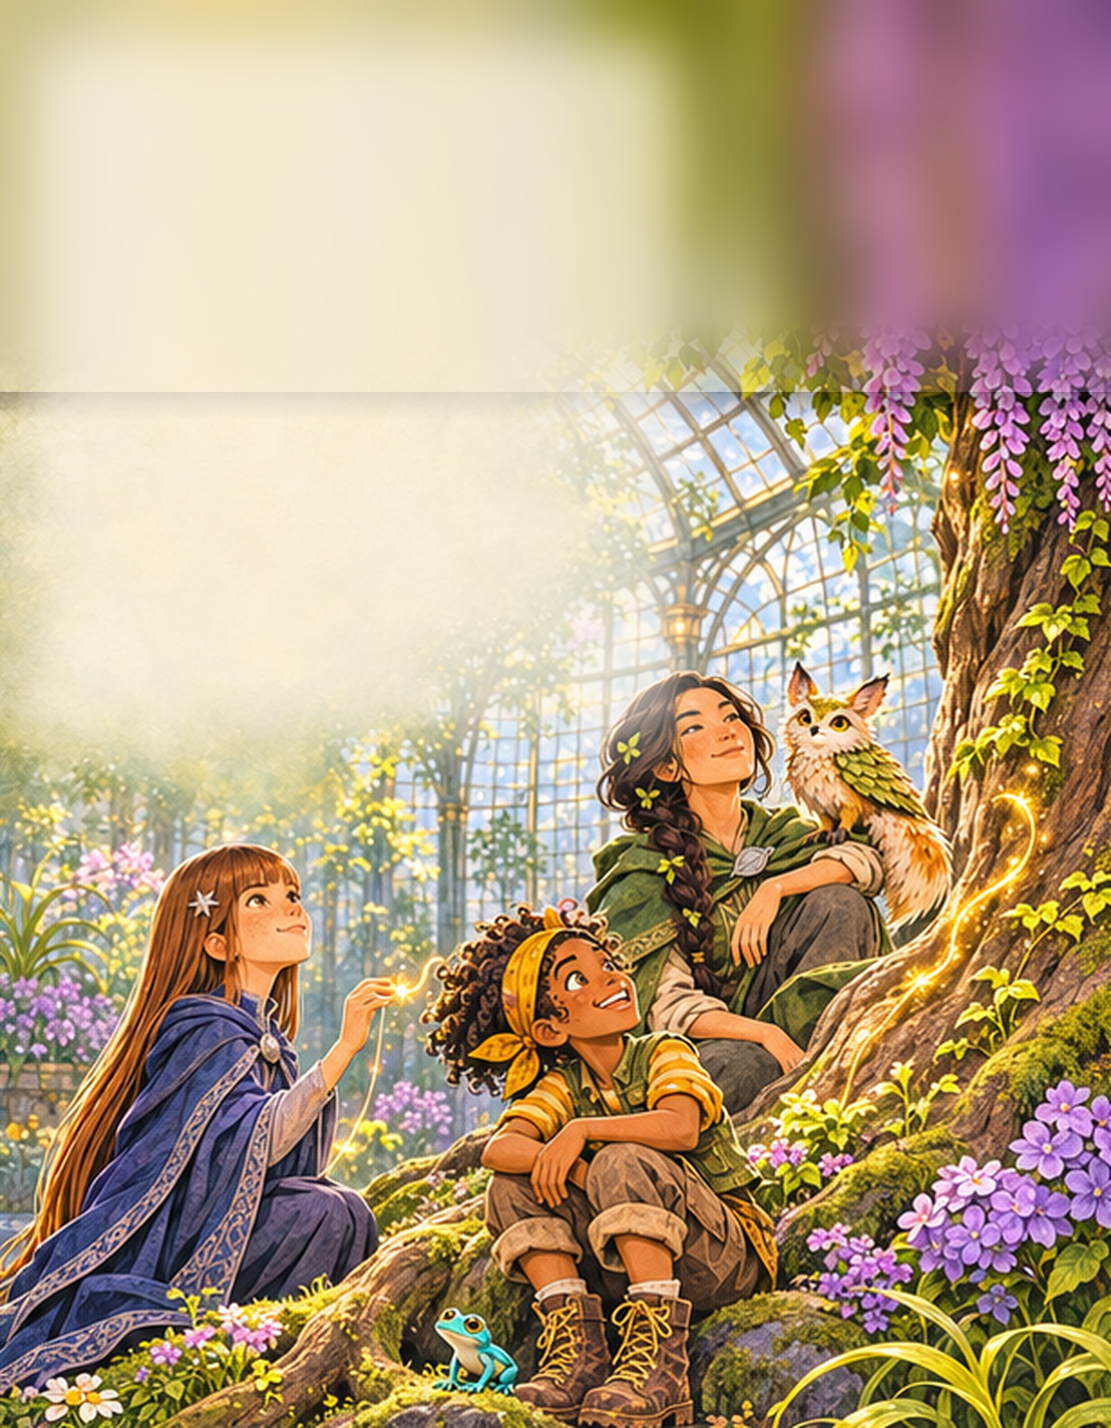
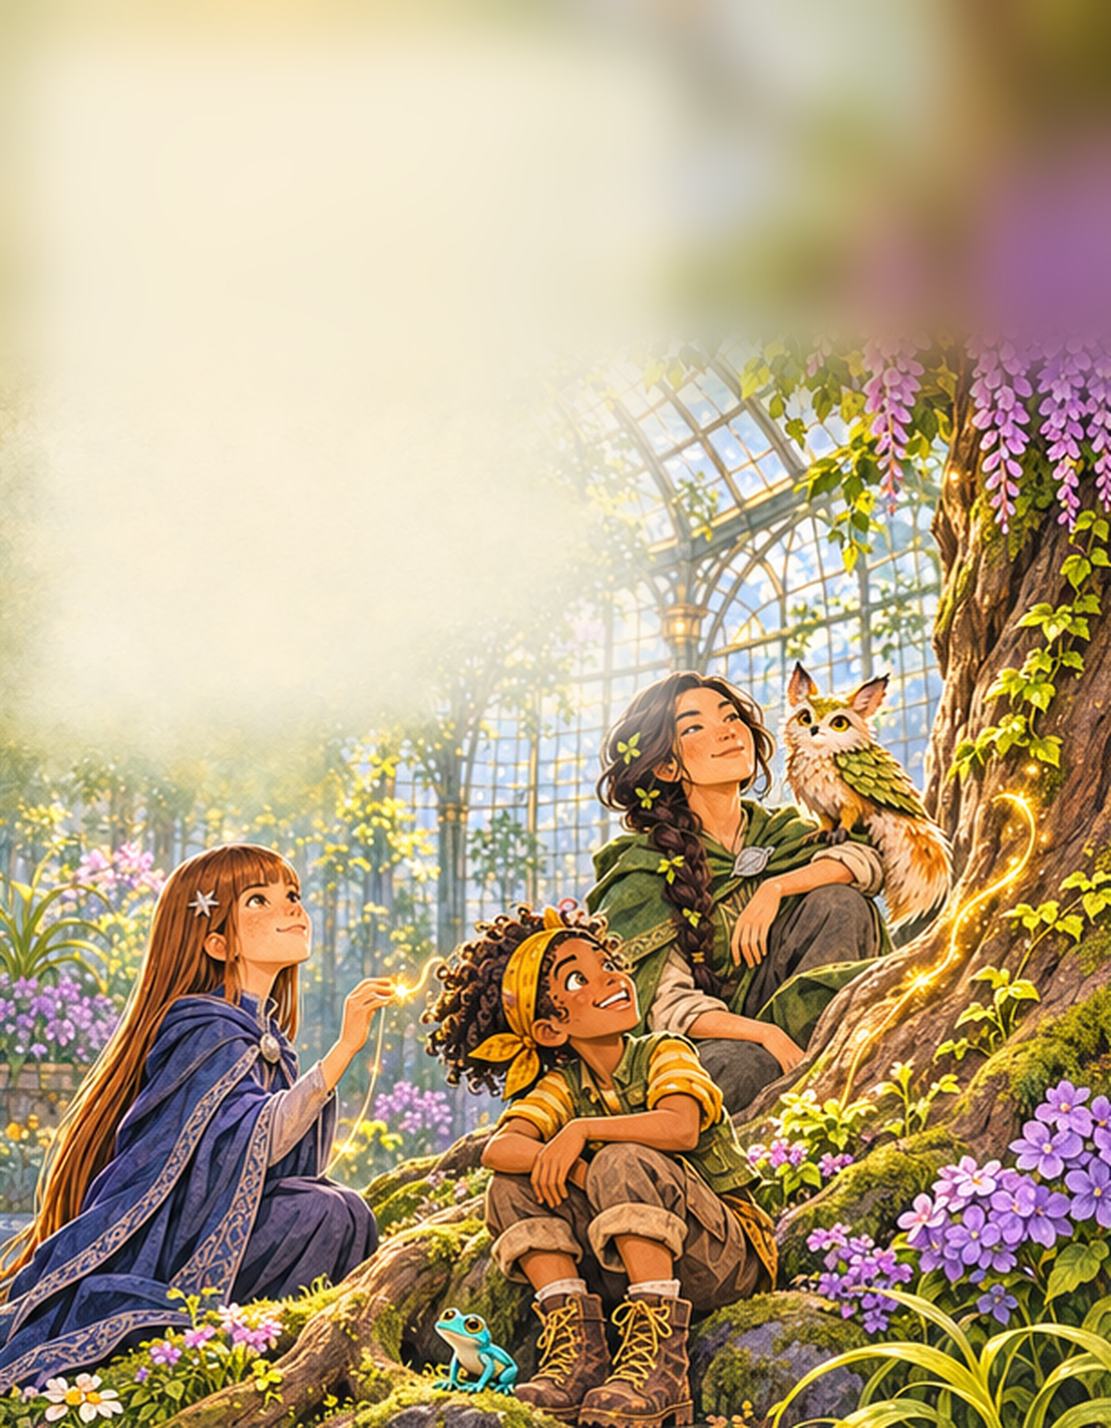
Save writing progress

Changed region(s): [[0.4607, 0.0, 1.0, 0.3111], [0.0, 0.2489, 0.0614, 0.3111], [0.0, 0.0622, 0.0307, 0.1244]]

diff --git a/glassvale/beyond-the-waterfall/the-three-paths/production/build_edition.py b/glassvale/beyond-the-waterfall/the-three-paths/production/build_edition.py
@@ -14,13 +14,14 @@ import hashlib
 import html
 import io
 import json
+import math
 import re
 import uuid
 import xml.etree.ElementTree as ET
 from pathlib import Path
 from zipfile import ZIP_DEFLATED, ZIP_STORED, ZipFile, ZipInfo
 
-from PIL import Image, ImageDraw, ImageFilter, ImageFont
+from PIL import Image, ImageDraw, ImageFilter, ImageFont, ImageOps
 from reportlab.lib.colors import HexColor
 from reportlab.lib.enums import TA_CENTER, TA_LEFT
 from reportlab.lib.styles import ParagraphStyle
@@ -198,7 +199,6 @@ def build_blended_page_image(ill: dict) -> Path:
     src = Image.open(BOOK / ill["asset"]).convert("RGB")
     target_w, target_h = 1400, 1800  # 200 px per inch for 7x9 in
     scale_h = round(src.height * target_w / src.width)
-    # If taller than page, fit height; otherwise fit width and anchor bottom
     if scale_h > target_h:
         resized = src.resize((target_w, target_h), Image.LANCZOS)
         y_top = 0
@@ -206,29 +206,42 @@ def build_blended_page_image(ill: dict) -> Path:
         resized = src.resize((target_w, scale_h), Image.LANCZOS)
         y_top = target_h - scale_h
 
-    # Build ambient upper sky/wall extension from top strip of illustration
-    top_strip = resized.crop((0, 0, target_w, min(48, resized.height)))
-    # Stretch top strip smoothly upward and blur heavily so sky/wall tone continues naturally
-    ambient_h = max(1, y_top + 96)
-    ambient = top_strip.resize((target_w, ambient_h), Image.BILINEAR)
-    ambient = ambient.filter(ImageFilter.GaussianBlur(radius=38))
-
+    # Build a completely seamless full-height ambient backdrop (mirrored top band + blur)
+    # so the illustration's top edge melts invisibly with zero horizontal seam.
     canvas_im = Image.new("RGB", (target_w, target_h))
-    canvas_im.paste(ambient, (0, 0))
-
-    # Feather top edge of resized illustration seamlessly into ambient extension
-    feather_px = min(130, resized.height // 4)
-    mask = Image.new("L", resized.size, 255)
-    m_draw = ImageDraw.Draw(mask)
     if y_top > 0:
+        mirror_src_h = min(resized.height, y_top + 180)
+        mirrored = ImageOps.flip(resized.crop((0, 0, target_w, mirror_src_h)))
+        # Ensure ambient layer covers from y=0 all the way past y_top + 200
+        ambient_bg = Image.new("RGB", (target_w, target_h))
+        ambient_bg.paste(resized, (0, y_top))
+        # Tile mirrored strip upward from y_top
+        paste_y = y_top - mirrored.height
+        ambient_bg.paste(mirrored, (0, max(0, paste_y)), None)
+        if paste_y < 0:
+            cropped_m = mirrored.crop((0, -paste_y, target_w, mirrored.height))
+            ambient_bg.paste(cropped_m, (0, 0))
+        elif paste_y > 0:
+            top_px = mirrored.crop((0, 0, target_w, 24)).resize((target_w, paste_y), Image.BILINEAR)
+            ambient_bg.paste(top_px, (0, 0))
+        ambient_bg = ambient_bg.filter(ImageFilter.GaussianBlur(radius=40))
+        canvas_im.paste(ambient_bg, (0, 0))
+
+        # Smooth cosine feather from y_top down over 180 px
+        feather_px = min(180, resized.height // 3)
+        mask = Image.new("L", resized.size, 255)
+        m_draw = ImageDraw.Draw(mask)
         for y in range(feather_px):
-            val = int(255 * (y / float(feather_px)) ** 1.35)
+            t = y / float(feather_px)
+            val = int(255 * 0.5 * (1.0 - math.cos(math.pi * t)))
             m_draw.line([(0, y), (target_w, y)], fill=val)
-    canvas_im.paste(resized, (0, y_top), mask)
+        canvas_im.paste(resized, (0, y_top), mask)
+    else:
+        canvas_im.paste(resized, (0, 0))
 
     # Apply soft feathered readability veil ONLY around the mapped text box
     bx, by, bw, bh = ill["box_pt"]
-    px_scale = target_w / PAGE_W  # 200/72
+    px_scale = target_w / PAGE_W
     x0 = int((bx - 22) * px_scale)
     y0 = int((by - 20) * px_scale)
     x1 = int((bx + bw + 22) * px_scale)
@@ -237,16 +250,15 @@ def build_blended_page_image(ill: dict) -> Path:
     theme = ill["text_theme"]
     if theme == "dark_on_light":
         veil_rgb = (250, 244, 231)
-        core_alpha = 188
+        core_alpha = 195
     else:
         veil_rgb = (20, 25, 48)
-        core_alpha = 185
+        core_alpha = 190
 
-    veil = Image.new("RGBA", (target_w, target_h), (0, 0, 0, 0))
     v_mask = Image.new("L", (target_w, target_h), 0)
     vm_draw = ImageDraw.Draw(v_mask)
-    vm_draw.rounded_rectangle([x0, y0, x1, y1], radius=46, fill=core_alpha)
-    v_mask = v_mask.filter(ImageFilter.GaussianBlur(radius=36))
+    vm_draw.rounded_rectangle([x0, y0, x1, y1], radius=48, fill=core_alpha)
+    v_mask = v_mask.filter(ImageFilter.GaussianBlur(radius=38))
     veil_color = Image.new("RGBA", (target_w, target_h), veil_rgb + (255,))
     veil_color.putalpha(v_mask)
 
@@ -342,11 +354,18 @@ def build_pdf(book_meta: dict, plan: dict, cover_jpg: Path, out_pdf: Path) -> tu
             c.setFillColor(HexColor(PAPER_HEX))
             c.rect(0, 0, PAGE_W, PAGE_H, stroke=0, fill=1)
 
-        def draw_footer(num: int, light: bool = False) -> None:
+        def draw_footer(num: int, light: bool = False, over_art: bool = False) -> None:
             c.saveState()
-            c.setFont("StorySans", 8.8)
-            c.setFillColor(HexColor("#E8DFC9" if light else "#7A7062"))
-            c.drawCentredString(PAGE_W / 2, 26, str(num))
+            if over_art:
+                c.setFillColor(HexColor("#141930" if light else "#FBF6EC"), alpha=0.72)
+                c.roundRect(PAGE_W / 2 - 14, 18, 28, 16, 7, stroke=0, fill=1)
+                c.setFont("StorySans-Bold", 8.5)
+                c.setFillColor(HexColor("#FBF6EC" if light else "#231F20"), alpha=1.0)
+                c.drawCentredString(PAGE_W / 2, 23, str(num))
+            else:
+                c.setFont("StorySans", 8.8)
+                c.setFillColor(HexColor("#7A7062"))
+                c.drawCentredString(PAGE_W / 2, 26, str(num))
             c.restoreState()
 
         # Page 1: Full-bleed cover
@@ -469,7 +488,7 @@ def build_pdf(book_meta: dict, plan: dict, cover_jpg: Path, out_pdf: Path) -> tu
                         p_obj.drawOn(c, bx, cur_y - ph)
                         cur_y -= ph + style.spaceAfter
 
-                    draw_footer(page_num, light=(ill["text_theme"] == "light_on_dark"))
+                    draw_footer(page_num, light=(ill["text_theme"] == "light_on_dark"), over_art=True)
                     c.showPage()
                     # Advance past blended paragraphs
                     i = ill["blended_paragraphs"][-1] + 1

diff --git a/glassvale/beyond-the-waterfall/the-three-paths/handoff.md b/glassvale/beyond-the-waterfall/the-three-paths/handoff.md
@@ -1,77 +1,17 @@
-# Handoff
+# Handoff — *The Three Paths* (*Beyond the Waterfall*, Book 1)
 
-## Current objective
-Develop the brief and write a representative scene or section.
+## Completed Work
+1. **Universe & 5-Book Series Canon (`glassvale/` & `glassvale/beyond-the-waterfall/`):**
+   - Established `universe.json` (`canon_revision: 1`), `bible.md`, `canon.json` (`FACT-0001`..`FACT-0010`), `timeline.json`, `glossary.md`, `decisions.md` (`DEC-GV-0001`), and 10 character profiles (`CHAR-0001`..`CHAR-0010`).
+   - Built the 5-book series roadmap (`beyond-the-waterfall/roadmap.md`, `bible.md`, `promises.json`, `series.json`) tracking the five pieces of **The World-Glass** and strictly guarding **Peter's** Book 5 Hollow Circle reveal (`KNO-0002` / `FACT-0007`).
+2. **Book 1 Manuscript (`manuscript/001`..`009`):**
+   - Drafted all 9 short chapters (6,885 words total, 0 em/en/double dashes).
+   - Completed a fresh-session independent editorial & continuity review (`reviews/editorial-review.md`, `reviews/issues.json`) and resolved all priority findings (Peter's Ch 2 & Ch 9 close-third POV/spoiler guard, Ch 6–8 Bell-Tower spatial causality, Peter's Mistgate ward absence, and Monica's Ch 4 & Ch 8 beats).
+3. **Illustrations & Blended-Text Reading Editions:**
+   - Generated 3 × 2x2 interior sheets (`sheet-01-ch1-3.png`, `sheet-02-ch4-6.png`, `sheet-03-ch7-9.png`) and `cover-art.png` via Codex `gpt-6.2-sol` built-in `image_gen` referencing the 3 approved sheets in `assets/references/`, and cropped cleanly into `ill-0001.png`..`ill-0012.png`.
+   - Built `exports/cover.jpg` (720 × 1080 JPEG), `exports/the-three-paths.pdf` (47-page 7 × 9 in storybook PDF with story prose blended seamlessly into painted open zones of all 12 illustrations), and `exports/the-three-paths.epub` (reflowable EPUB 3).
+   - Rendered all 47 PDF pages via `pdftoppm` and visually inspected the cover, TOC, openers, and all 12 blended-text illustrated pages; verified EPUB XML and alt text; verified `studio.py check` passes with 0 structural errors.
 
-## Completed and changed paths
-Workspace scaffold only; no prose, canon, research, or editorial reviews completed.
-
-## Accepted decisions / source snapshot
-Record decision references, canon revision, and relevant hashes or Git commit here.
-
-## Open issues and assumptions
-Creative brief is unfilled. Do not present template prompts as established decisions.
-
-## Next concrete action
-Fill the brief from the author's request; make labeled reversible assumptions where needed.
-Plan one unit, draft it, and request an independent reading before mass production.
-
-## Chapters 1–3 illustration sheet
-
[1 lines of base64/hex data omitted]
-
-The director inspected all four quadrants. The grid, cream gutters, identifying cast details, and requested scene beats are visible. No lettering was visible. The unobstructed corner washes are smaller than the requested 35–40%, particularly in Great Hall Tea and Spooky Deep Gate. In Starlight Tower Lesson, Peter's hand supports Clara's forearm, and his belt timer is not clearly visible. The rendered tea cup is blue-patterned porcelain. Check fit with the actual story text before using the art in layout. The sheet is generated art and has had a first visual pass.
-
-The source checkout was at `56a4c9d`. The local workspace holds the result because Git metadata is read-only in this session. The assignment covers the source sheet and this handoff. No typeset proof was produced.
-
-| Reference in `assets/references/` | SHA-256 |
-| --- | --- |
[3 lines of base64/hex data omitted]
-
-<details>
-<summary>Generation prompt</summary>
-
-Generate exactly ONE opaque, highest-native-resolution square PNG: 2048 × 2048 if supported, otherwise the maximum square size supported. It is a single original four-panel chapter-book illustration sheet. Use all three attached images as visual references: image 1 for Monica (lower right) and Peter (lower left); image 2 for Clara (upper left), Maya and Pebble (upper right), Sam (lower left), Victor (lower right); image 3 for the look of Glassvale's academy, architecture and observatory. Match their rich hand-painted storybook watercolor and gouache, visible paper grain, layered warm/cool color, crisp expressive ink linework, age-appropriate proportions and specific hair, facial features, color palettes and clothing. Use only the characters assigned to each scene.
-
-SHEET GEOMETRY. Put four exactly equal square panels in a precise 2×2 grid with thin, straight, clean cream-paper borders and centered, even cream-paper gutters. Keep a single scene within each quadrant. Absolutely no text, words, letters, numerals, labels, logos, signatures or title cards anywhere. Books and architectural components may have abstract ornament only.
-
-COMPOSITION FOR LATER STORY TYPE. Within EACH individual square reserve about 38% of its area as a calm, softly painted continuous background wash integrated into the scene. Think of a clear area stretching from its designated upper corner across about 70% of the square width and down about 54% of its height. Make it genuinely spacious and consistently light or dark as specified. Every face, strong contrast, prop, major architectural edge, prominent star, magic particle and other detail belongs outside the clear area, in the lower half or along the far side. The wash is painted scenery, with a gentle transition into the developed painting and no inset border. Preserve all four designated corners, alternating left and right.
-
-TOP LEFT, Mistgate Arrival. Leave the UPPER LEFT pale golden-misty sky almost entirely open. In the lower foreground, 11-year-old Clara steps completely dry right out from behind a shimmering mountain waterfall arch toward distant Glassvale Academy. She has smooth straight light-brown hair with neat straight bangs and a silver-star clip, a slate-blue cloak with midnight-indigo and silver trim, and a leather satchel. Place the waterfall at the far side and the Academy in the lower or far-right distance, with its distinct central Bell-Tower, Copper Brass Spire, Living Glass Dome, and floating-crown Starlight Tower visible.
-
-TOP RIGHT, Great Hall Tea. Leave the UPPER RIGHT as a softly lit pale-parchment high wall and diffuse window-light wash, with any window ornament out of the clear area. Cluster the story action lower and left inside the warm oak-paneled hall. Headmistress Monica, an adult with silver-streaked dark hair in a loose bun, silver glasses on chains and teal-and-silver robes, pours steaming tea from a silver teapot with a knowing smile. 11-year-old Sam, with wild curly ginger hair, crooked round silver glasses, burgundy knit sweater and open navy waistcoat, chases a wobbling floating blue teacup puffing tiny gold sparks. 11-year-old sporty Black girl Maya laughs beside them, bouncy dark curls, mustard-yellow bandana, olive utility vest over ochre striped shirt, muddy boots, and her single tiny glowing turquoise frog Pebble perched on her raised wrist.
-
-BOTTOM LEFT, Starlight Tower Lesson. Leave the UPPER LEFT as smooth, quiet deep midnight-indigo with very faint sparse distant starlight, dark enough for cream text. Keep brass constellation rings to the far side, outside the wash. In the lower and right portion of the observatory, Clara with the same design holds visibly swirling violet-gold sparks above her upturned palm as Peter gently steadies that wrist and smiles warmly. Peter is a tall, fit, athletic Black man in tailored deep-plum and gold robes, with his small antique brass sand-timer clearly visible at his belt. Sam ducks behind books. 12-year-old blond Victor smirks nearby in a crisp navy-and-silver jacket and dark leather gloves. Keep Peter warm and trustworthy.
-
-BOTTOM RIGHT, Spooky Deep Gate. Leave the UPPER RIGHT as smooth, quiet, dark twilight stone and mist, with low contrast suitable for cream text. Group the action on the left and bottom. At night outside a visibly locked wrought-iron gate and its stone staircase, Clara and Sam stand beside Maya, who holds up her tiny turquoise frog Pebble. Pebble's throat glows distinctly bright gold against his turquoise body. Pale-violet Whisper-Moths snuff the stair candles, with dying wicks and small threads of smoke. Behind the bars emerald-violet mist swirls around a tall dark watcher in a slate-gray storm coat and a silver-etched mask. Keep the silver etching ornamental. The encounter is spooky and readable, with no reveal of the watcher's face.
-
-</details>
-
-## Chapters 4–6 illustration sheet
-
[1 lines of base64/hex data omitted]
-
-The director inspected all four quadrants. The cream gutters, cast details, two stone sparrows and two Ink-Hounds are visible. The four intended corner washes are present, with clear areas falling short of the 38% target. Check the actual copy against these smaller clear areas at page size before setting the illustrated edition. This assignment covers the raw sheet and this handoff. The sheet is generated art.
-
-The illustration reviewer independently inspected all four panels against the references and the brief. The reviewer visually estimated clear areas of about 25% in the boiler room and Living Dome, 25–30% in the courtyard, and 30–35% in the vault. Maya and Marissa read as seated. The dome also shows separate gold trails near Clara’s hand and along the root. An enlarged inspection shows abstract diagrams in the notebook and numeral-like marks on the pump gauge, with no legible lettering. Review status is revise for text-space coverage. The PNG is retained as the single requested source render. The local workspace holds the result because Git metadata is read-only in this session.
-
-<details>
-<summary>Generation prompt</summary>
-
-Generate ONE new finished storybook illustration PNG sheet for The Three Paths using all three attached reference images. Request 2048 × 2048 native pixels if the built-in renderer supports it, otherwise use its largest native square resolution. Exact centered 2 × 2 grid, four equally sized square paintings with very straight thin clean cream-paper gutters and a matching thin outer border. The input images are refs only. Image 1 locks the designs of Jorge (top left) and Marissa with Pip (top right). Image 2 locks Clara (top left), Maya with Pebble (top right), Sam (bottom left). Image 3 locks the academy, Brass Spire and Living Dome architecture and saturated cozy fantasy storybook treatment. Match the distinct faces, apparent ages, skin tones, hair silhouettes, costumes and proportions precisely. Keep rich painterly watercolor and opaque gouache, finely etched crisp ink lines on faces and foreground objects, warm lamplight, jewel-like magical accents, visible paper texture and expressive natural poses.
-
-Most important layout constraint, after the precise grid: reserve a continuous calm wash covering about 38 percent of EACH panel's whole area in its specified upper corner. A practical target is an uninterrupted region about 75 percent of panel width and 50 percent of panel height anchored to that corner. Place action in the opposite side and lower half, with characters sized to leave that area fully usable. The space is an organic part of the painting, softly graded with restrained paper grain. Keep all faces, figures, limbs, branches, beams, architecture lines, machinery, hanging props, magical sparks, smoke streaks and high-contrast texture out of its usable area. Concentrate detail in the action. The entire sheet is raw illustration with absolutely ZERO words, text, letters, digits, labels, glyphs, writing, speech balloons, captions, logos or signatures. Sam's notebook is blank or has purely abstract diagram lines.
-
-TOP LEFT. Golden Brass Spire boiler room. Place the narrative group in the lower half, with taller character and piping on the left. Eleven-year-old Clara, straight long light-brown hair and neat bangs, silver star clip and slate-blue cloak, holds a bright lantern steady with one hand and offers a small brass shim with the other. Dark-haired Jorge with friendly stubble, forehead brass goggles, rolled cream sleeves and copper-and-leather tool vest grins as he wrenches a dark frost-crusted iron clamp off a steaming copper water pump. Eleven-year-old Sam, wild ginger curls, crooked round glasses, burgundy sweater and open navy waistcoat, watches with his notebook in hand. Warm pale parchment lantern-lit ceiling wash in the UPPER RIGHT, approximately 38 percent of panel. Place the steam low and to the left.
-
-TOP RIGHT. Sunlit glass Living Dome. Put the oak's trunk and root, living green foliage, and character group in the lower right, with recognizable supports around the right margin. Warm Asian Marissa with a dark leaf-woven side braid, emerald-and-moss cloak and silver leaf pin kneels with sporty eleven-year-old Black Maya, with curly hair and mustard bandana, olive utility vest and muddy boots. Tiny turquoise frog Pebble is by Maya. Moss-feathered owl-fox Pip perches by Marissa. Clara holds one calm fine thread of warm gold starlight to the giant oak's bark as fresh green life returns along the root in the damp moss. Soft bright sunlit conservatory mist wash in the UPPER LEFT, approximately 38 percent of panel. Keep all glass framework and plant tendrils out of that left wash.
-
-BOTTOM LEFT. Stone academy courtyard at dusk. Clara planted firmly in the lower foreground raises a violet-gold starlight shield over Maya and Sam. Exactly two stone sparrow statues with glowing green eyes swoop into a woven copper snare-net visibly launched by Jorge, up on a workshop balcony at the far right. Keep the birds, copper net, shield and balcony on the right or lower half of this panel, shaping their movement toward the children. Smooth and calm dusky slate-blue sky wash in the UPPER LEFT, approximately 38 percent of panel, gently painted even in tone, with sufficient depth for warm cream book text later.
-
-BOTTOM RIGHT. Circular underground stone Bell-Vault with a crystal prism chandelier overhead, framed on the left side. Gaunt masked Silas in his rain-dark gray coat stands beside exactly two smoky black wolf-like Ink-Hounds with emerald-glowing eyes, facing Clara, Maya, and Sam on the lower right. Their focal point is a glowing stone pedestal with three visible lock fittings and a small golden crown-cap on top. Concentrate face, hound, refracted chandelier light and all object detail below or left of the quiet region. Smooth dark deep-indigo vaulted stone shadow wash in the UPPER RIGHT, approximately 38 percent of the panel, even enough for warm cream book text later. No light fixtures, linework, sparkle or imagery inside this shadow wash.
-
-Preserve the same distinct Clara, Maya, Sam and Jorge across appearances. Keep the four motifs neatly contained in their own equal panels with no cross-gutter overlap. Check that the corners provide large soft uninterrupted text-safe washes and the finished artwork contains no lettering anywhere. One square four-panel sheet only.
-
-</details>
+## Remaining / Next Concrete Action
+- Share the reading PDF, EPUB, and page previews with the author and Clara for bedtime reading and feedback.
+- Once approved (or after any requested story/art tweaks), optionally prepare read-aloud audio (`tools/drama3.py`) or stage into `publications/` and `site/` for publishing.

diff --git a/glassvale/beyond-the-waterfall/the-three-paths/production/brief.md b/glassvale/beyond-the-waterfall/the-three-paths/production/brief.md
@@ -1,22 +1,12 @@
-# Production and packaging
+# Production Brief — *The Three Paths* (*Beyond the Waterfall*, Book 1)
 
-## Edition
-Title/subtitle, author/pseudonym, language, imprint, edition/date, formats.
-
-## Front and back matter
-Copyright, dedication, contents, acknowledgments, notes, bibliography, author bio,
-series order, and other material actually needed.
-
-## Cover and illustrations
-Art-direction brief, series identity, image descriptions, asset sources and rights.
-Use actual printer/platform specifications for dimensions, spine, bleed, and colors.
-
-## Reader-facing copy
-Blurb, description, audience, accurate categories/keywords; no invented endorsements.
-
-## Permissions and provenance
-Quote/image permissions, attribution, licensing, and required disclosures.
-
-## Release checklist
-Current reviews and accepted exceptions; source/export manifest; proof of actual
-output; unresolved issues; author publication decision. Assembly is not publication.
+- **Edition:** Illustrated First Edition (blended-text 7 × 9 in storybook PDF, reflowable EPUB 3, and 720 × 1080 JPEG cover).
+- **Word count:** 6,885 words across 9 chapters (`manuscript/001`..`009`), 0 em/en/double dashes.
+- **Build script:** `production/build_edition.py` (ReportLab + Pillow via `uv run --with reportlab --with pillow`).
+- **Art pipeline:** 4 Codex (`gpt-6.2-sol`) `image_gen` calls total (3 × 2x2 interior sheets yielding 12 cropped scene illustrations `ill-0001.png`..`ill-0012.png`, plus 1 dedicated 2:3 portrait `cover-art.png`, anchored by 3 reference sheets in `assets/references/`). Zero quota fallback needed.
+- **Current local exports:**
[3 lines of base64/hex data omitted]
+- **Visual proof coverage:** Rendered all 47 PDF pages at 110 dpi via `pdftoppm`; visually inspected `exports/cover.jpg`, Title Page, TOC, Ch 1 opener, and all 12 blended-text illustrated pages (rebuilt and re-inspected after fixing the seamless upper sky feathering, footer badge legibility, and Ch 8 `ill-0010` text clearance). Validated EPUB XML well-formedness and all 12 interior `alt` attributes.
+- **Rights & release status:** Local reading copy ready for author and Clara's review; public release (`publications/`, `site/`, Git push) held pending explicit author authorization.
